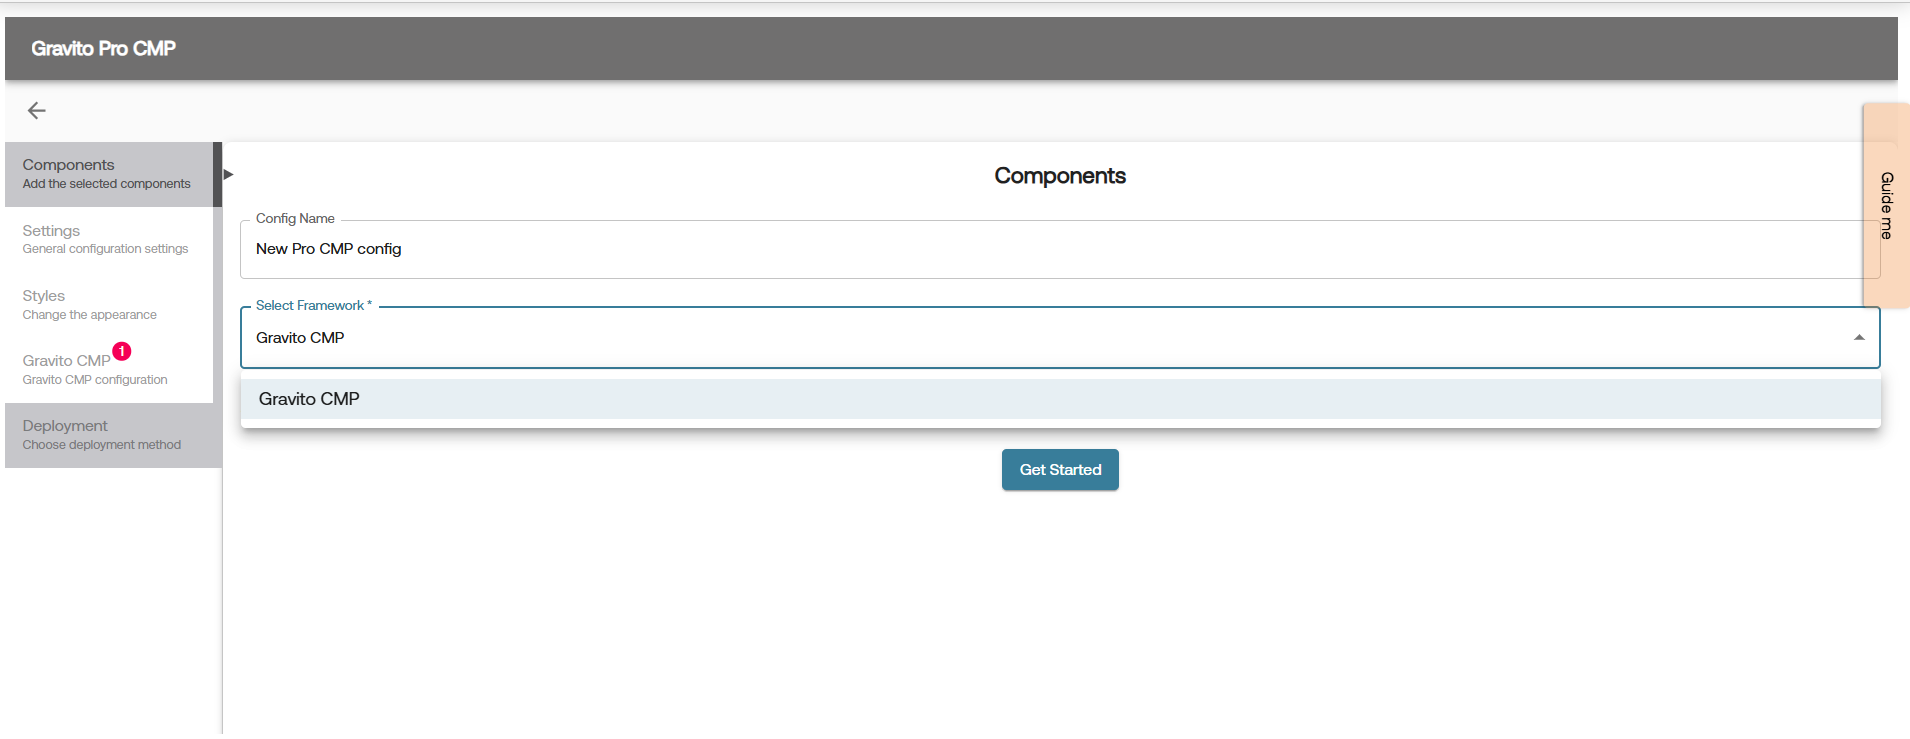
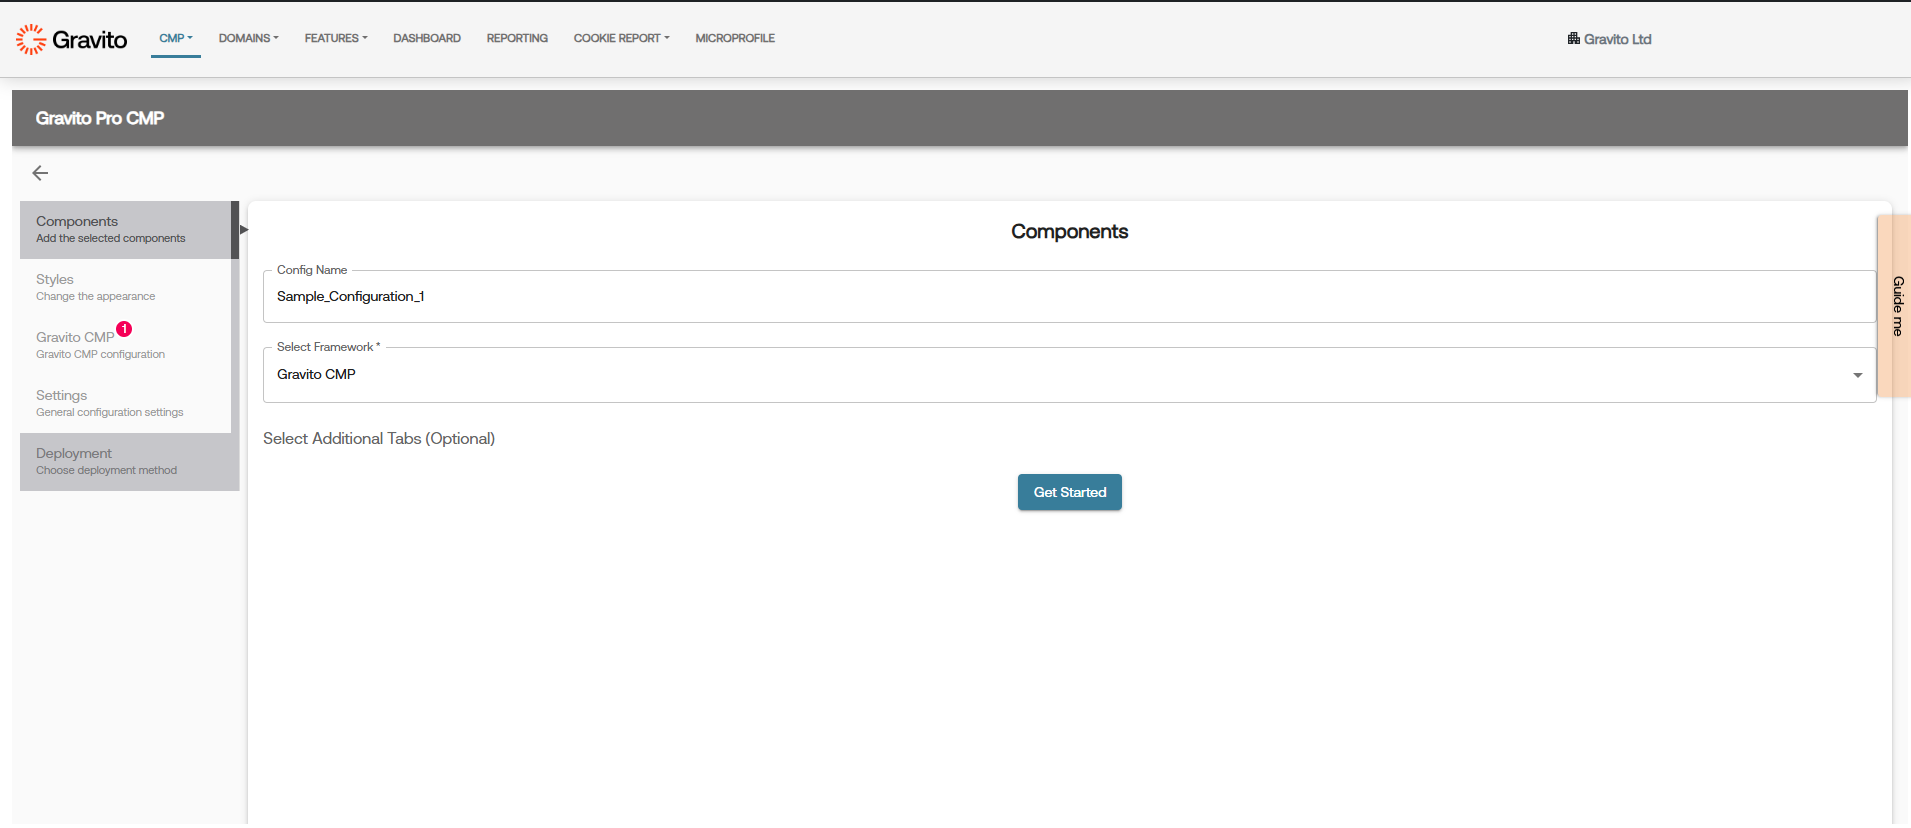
gcm & uet for pro

Changed region(s): [[0.0, 0.0, 1.0, 0.6847], [0.5251, 0.2179, 0.5869, 0.3112]]

diff --git a/docs/Gravito_Pro_CMP/Gravito_cmp_uet.md b/docs/Gravito_Pro_CMP/Gravito_cmp_uet.md
@@ -1,0 +1,89 @@
+# Microsoft Consent Mode (UET)
+
+## Enabling Microsoft Consent Mode in Pro Gravito CMP
+
+Pro Gravito CMP supports two ways to enable Microsoft's Universal Consent Mode:
+
+### 1. Using Configurator
+
+1. **Login** to the Gravito Admin Portal.
+2. Click on the **CMP** tab.
+3. Select the **Gravito Pro CMP Configurator** from the option.
+4. On the CMP Config listing page, click the **New Configuration** button to create a new CMP config.
+5. Give config an appropriate name and choose **Gravito CMP** as **Framework**. After that, click **Get Started** to proceed.
+        ![](./img/configurator_setup.png)
+
+6. Now navigate to **Gravito CMP** tab and **Consent Categories** sub-tab for UET related setup.
+7. You can enable UET by checking the checkbox labeled **Microsoft's Universal Event Tracking (UET)**.
+8. After enabling UET, an additional field will appear for configuration.
+    ![](./img/uet_setup.png)
+
+#### Consent Mapping:
+
+You’ll now see dropdowns to map category for : `ad_storage`
+
+Select the relevant **consent category** from the dropdown list.
+
+**Note:** This mapping is for the `ad_storage` signal only is common across both GCMv2 & UET.
+
+Once mapping is complete, click **Save Progress** at the top-right. Now you have successfully enabled Microsoft UET Consent Mode in your CMP configuration.
+
+You may continue filling out the other CMP configuration steps, or jump directly to the **Deployment** tab.
+
+### 2. Without Configurator
+
+1.  **Enable UET Mode**:  
+    Add the `useUET` flag under the `gravitoCMP.core` section of your configuration and set its value to `true`.
+
+     <pre><code>
+     gravitoCMP: {
+         "core": {
+             "useUET": true,
+             // ... other configurations
+         }
+         // ... other sections
+     }
+     </code></pre>
+
+2.  Add `adsConsentId`
+
+    You must also define the `adsConsentId` property in your configuration. This is required to map consent values for Microsoft UET. There are two cases:
+
+    - **If Google Consent Mode is already configured**:
+
+          The `adsConsentId` property will already be available in your config.
+
+    - **If not configured**:
+
+          Add the `adsConsentId` property under the `gravitoCMP.core` section of your config manually.
+
+
+3.  Define `adsConsentId` Based on CMP Type
+
+    The `adsConsentId` should be a **single ID** referring to the custom consent item that you have defined in the config. It is not an array of TCF purpose IDs in this case.
+
+      Example:
+      <pre><code>
+        gravitoCMP: {
+            "core": {
+                "useUET": true,
+                "adsConsentId": "{{YOUR_CONSENT_ITEM_ID}}"
+                // ... other configurations
+            },
+        }
+      </code></pre>
+
+      This means the consent value of the item with ID `"{{YOUR_CONSENT_ITEM_ID}}"` will be used for Microsoft UET.
+
+4.  How Gravito CMP Handles UET Consent
+
+    Once the above configuration is complete:
+
+    - Microsoft UET mode is considered **enabled**.
+    - Gravito CMP adds the corresponding ads consent value (`denied` or `granted`) to the global `uetq` window object.
+    - By default, the value is `denied`.
+    - After consent is obtained, the CMP updates the value based on the mapping defined in `adsConsentId`.
+
+    Microsoft reads this value from the `uetq` object to determine whether tracking is allowed.
+
+    Gravito CMP's follow the approach mentioned [Here](https://help.ads.microsoft.com/#apex/ads/en/60119/1-500)

diff --git a/docs/Gravito_Pro_CMP/Gravito_cmp_gcmv2.md b/docs/Gravito_Pro_CMP/Gravito_cmp_gcmv2.md
@@ -1,0 +1,78 @@
+# Google Consent Mode v2
+
+## What is Google Consent Mode v2?
+
+**Google Consent Mode v2** allows you to adjust how Google tags behave based on the user's consent choices. This helps ensure compliance with data protection regulations while still enabling important site functionality.
+
+Consent Mode v2 particularly impacts:
+
+- **Cookies**
+- **Ad Personalization**
+- **Analytics Tracking**
+
+With **Consent Mode v2**, Google introduced two **new consent signals** required to comply with the **EU Digital Markets Act (DMA)**:
+
+### Consent Signals:
+- `ad_storage`
+- `analytics_storage`
+- `ad_user_data` (🆕)
+- `ad_personalization` (🆕)
+
+> The new signals `ad_user_data` and `ad_personalization` are essential under DMA for platforms like Google Ads and should be set according to user consent.
+
+**[Official Google Documentation on Consent Mode v2](https://developers.google.com/tag-platform/devguides/consent)**
+
+---
+
+## Enabling Google Consent Mode v2 in Pro Gravito CMP
+
+### Creating Config in Admin Portal
+
+1. **Login** to the Gravito Admin Portal.
+2. Click on the **CMP** tab.
+3. Select the **Gravito Pro CMP Configurator** from the option.
+4. On the CMP Config listing page, click the **New Configuration** button to create a new CMP Config.
+5. Give config an appropriate name and choose **Gravito CMP** as **Framework**. After that, click **Get Started** to proceed.
+        ![](./img/configurator_setup.png)
+
+6. Now navigate to **Gravito CMP** tab and **Consent Categories** sub-tab for GCMv2 related setup.
+7. You can enable GCM by checking the checkbox labeled **Google's GCM-V2**.
+8. After enabling GCM, some additional fields will appear for configuration.
+    ![](./img/gcm_setup.png)
+
+    - **Use GCM Advance Mode** is enabled by default. You can uncheck this if you want to use the **Basic Mode**.
+    - All other fields are related to Google consent signal mapping. They are explained below.
+
+**Note:** when the using GCM Basic Mode, the **GTM template** deployment option will not be available.
+
+#### Consent Mapping:
+
+You’ll now see dropdowns to map categories for the following Google consent signals:
+- `ad_storage`
+- `analytics_storage`
+- `ad_user_data`
+- `ad_personalization`
+
+For each of these, select the relevant **consent category** from the dropdown list. You will see default mappings, but you can change them as per your requirements.
+
+Once mappings are complete, you may continue filling out the other CMP configuration steps, or jump directly to the **Deployment"** tab for publishing your config.
+
+
+>**Note:** If you are using **GCM Basic Mode**, you will see additional logic in your deployment script.
+
+   ![](./img/additional_Gtm_logic.png)
+
+   below the comment `// Insert your GTM script here` you can add your GTM script. You can get the GTM script from your GTM account. It will look like this:
+   
+```js
+(function (w, d, s, l, i) {
+  w[l] = w[l] || [];
+  w[l].push({ "gtm.start": new Date().getTime(), event: "gtm.js" });
+  var f = d.getElementsByTagName(s)[0],
+    j = d.createElement(s),
+    dl = l != "dataLayer" ? "&l=" + l : "";
+  j.async = true;
+  j.src = "https://www.googletagmanager.com/gtm.js?id=" + i + dl;
+  f.parentNode.insertBefore(j, f);
+})(window, document, "script", "dataLayer", "{{Your_GTM_ID}}");
+```
